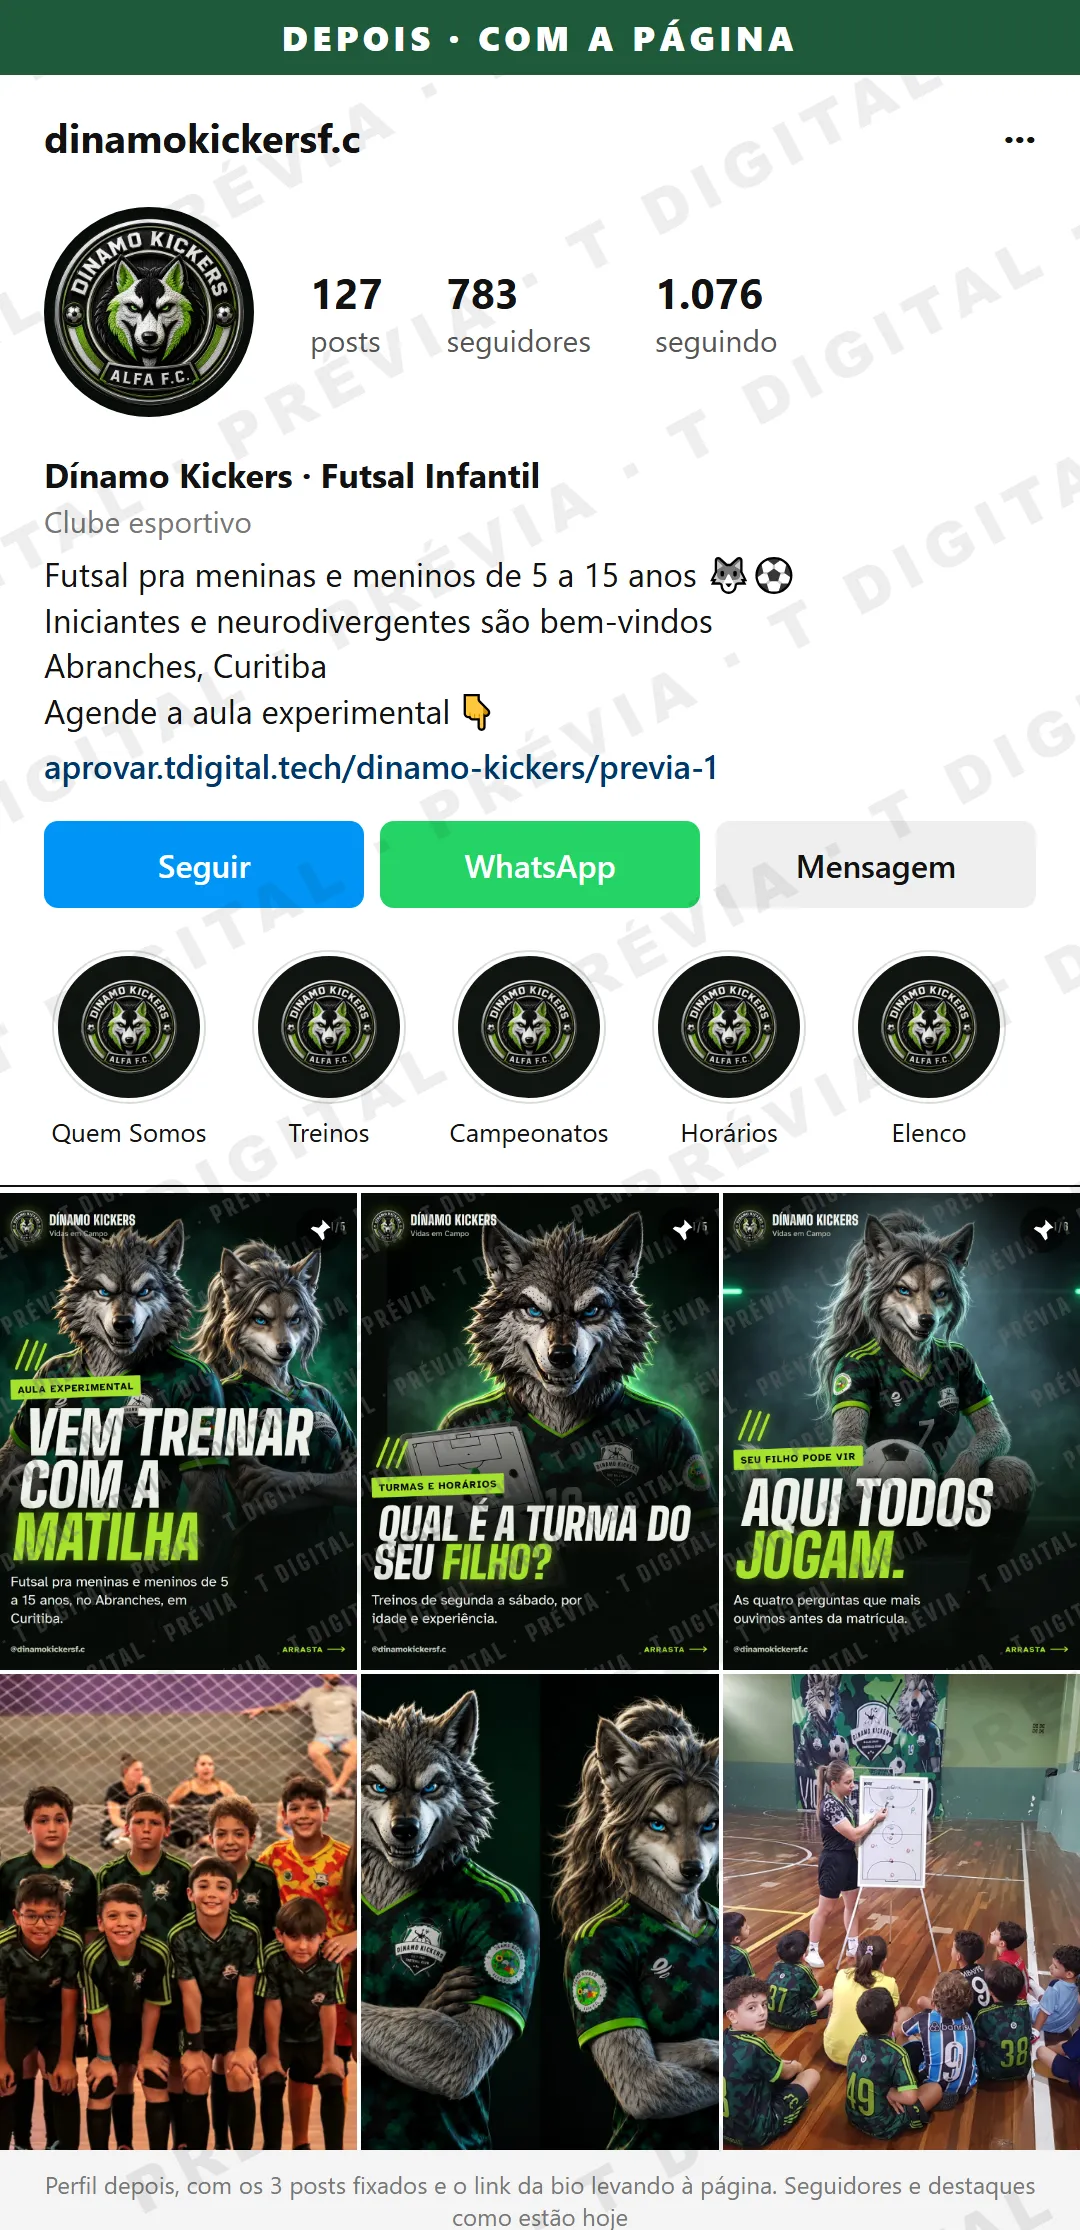
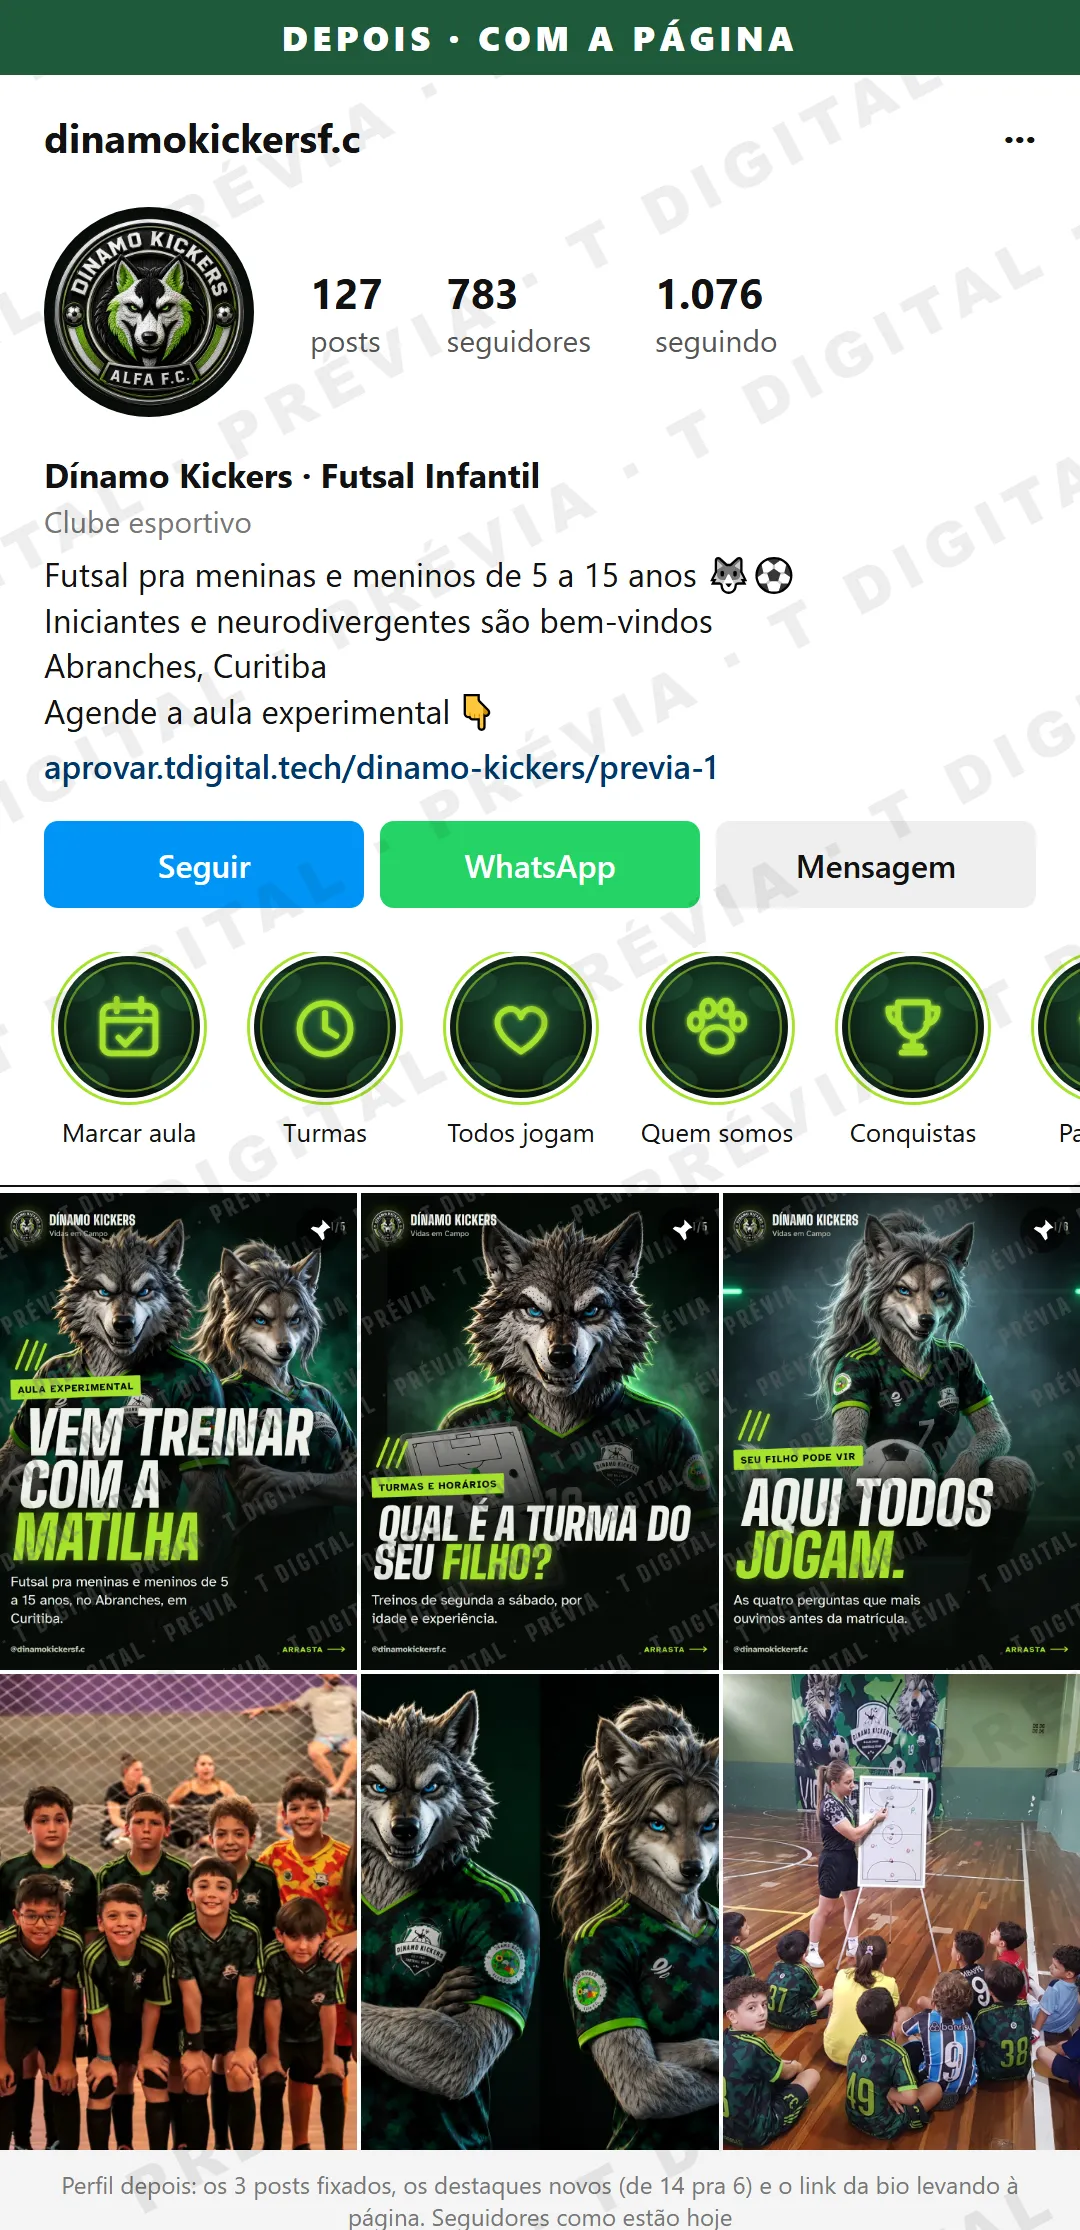
Dinamo: previa do Instagram com destaques novos e a pagina antes e depois

diff --git a/public/dinamo-kickers/2026-11-18-instagram/dados.js b/public/dinamo-kickers/2026-11-18-instagram/dados.js
@@ -23,7 +23,7 @@ window.DADOS = {
     {
      "id": "1-1",
      "titulo": "O perfil, antes e depois",
-     "nota": "Hoje o perfil não tem página: o link é um atalho do Google, o WhatsApp está só em texto (não dá pra tocar) e a categoria é \"Vestuário (marca)\", então quem chega lê loja de roupa. No depois, a categoria vira clube esportivo, o nome ganha \"Futsal Infantil\" (o que os pais buscam), o WhatsApp vira botão e o link da bio leva à página, com turmas, valores e o botão de agendar. O \"antes\" foi recriado do que vimos no perfil em 13/11.",
+     "nota": "Hoje o perfil não tem página: o link é um atalho do Google, o WhatsApp está só em texto (não dá pra tocar) e a categoria é \"Vestuário (marca)\", então quem chega lê loja de roupa. No depois, a categoria vira clube esportivo, o nome ganha \"Futsal Infantil\" (o que os pais buscam), o WhatsApp vira botão, os destaques ganham capas novas e o link da bio leva à página, com turmas, valores e o botão de agendar. O \"antes\" foi recriado do que vimos no perfil em 13/11.",
      "livre": true,
      "slides": [
       {
@@ -34,11 +34,6 @@ window.DADOS = {
       {
        "src": "img/1-1-2.webp",
        "label": "Depois · com a página no link da bio",
-       "ia": false
-      },
-      {
-       "src": "img/1-1-3.webp",
-       "label": "Depois · a página que o link abre",
        "ia": false
       }
      ],
@@ -64,9 +59,78 @@ window.DADOS = {
        "só em texto, sem clique → botão de WhatsApp no perfil e na página"
       ],
       [
+       "Destaques",
+       "14, com Horários em último → 6, na ordem do que o pai pergunta: Marcar aula, Turmas, Todos jogam, Quem somos, Conquistas, Parcerias"
+      ],
+      [
        "Fixados",
        "\"Novo polo de captação\", escudo e certificado → como marcar a aula, turmas e valores, \"Seu filho pode vir\""
       ]
+     ]
+    }
+   ]
+  },
+  {
+   "id": "destaques",
+   "nome": "Destaques",
+   "titulo": "Os destaques",
+   "sub": "A primeira coisa que muda de cara no perfil.",
+   "itens": [
+    {
+     "id": "2-1",
+     "titulo": "As capas dos destaques",
+     "nota": "Hoje são 14 destaques e o de horários é o último. Ficam 6, na ordem do que o pai pergunta: marcar a aula primeiro, depois turmas e valores, quem pode vir, quem somos, conquistas e parcerias. Cada capa ganha um ícone próprio, no preto, no verde e no verde-limão das artes de vocês, pra o pai achar o que procura sem abrir um por um. O conteúdo dos destaques antigos que vale a pena entra dentro desses 6.",
+     "slides": [
+      {
+       "src": "img/2-1-1.webp",
+       "label": "De 14 para 6",
+       "ia": false
+      }
+     ]
+    }
+   ]
+  },
+  {
+   "id": "pagina",
+   "nome": "Página",
+   "titulo": "A página",
+   "sub": "Hoje a Dínamo não tem página. Assim fica com ela.",
+   "itens": [
+    {
+     "id": "3-1",
+     "titulo": "A página, antes e depois",
+     "nota": "Hoje, quem chega pelo Instagram encontra os horários no último destaque, o WhatsApp só em texto e o link da bio num atalho do Google. Com a página, fica tudo num lugar só: pra quem é, as dúvidas dos pais, as turmas, a mensalidade e o botão pra agendar a aula pelo WhatsApp. As telas são da prévia da página que vocês já viram, no tamanho de um celular; as etiquetas amarelas são o que ainda vamos confirmar com vocês.",
+     "slides": [
+      {
+       "src": "img/3-1-1.webp",
+       "label": "Antes e depois",
+       "ia": false
+      },
+      {
+       "src": "img/3-1-2.webp",
+       "label": "Depois · a primeira tela",
+       "ia": false
+      },
+      {
+       "src": "img/3-1-3.webp",
+       "label": "Depois · as dúvidas dos pais",
+       "ia": false
+      },
+      {
+       "src": "img/3-1-4.webp",
+       "label": "Depois · turmas e horários",
+       "ia": false
+      },
+      {
+       "src": "img/3-1-5.webp",
+       "label": "Depois · mensalidade",
+       "ia": false
+      },
+      {
+       "src": "img/3-1-6.webp",
+       "label": "Depois · o WhatsApp",
+       "ia": false
+      }
      ]
     }
    ]
@@ -78,34 +142,34 @@ window.DADOS = {
    "sub": "Ficam no topo do perfil e respondem o que os pais mais perguntam.",
    "itens": [
     {
-     "id": "2-1",
+     "id": "4-1",
      "titulo": "Como marcar a aula experimental",
      "etiqueta": "Post fixado",
      "ordem": "1 de 3",
      "nota": "Hoje nenhum post fixado diz como marcar a aula. Este é o primeiro que o pai vê. Na capa, o lobo e a loba de vocês; nos passos, fotos reais das aulas, só com luz e cor ajustadas.",
      "slides": [
       {
-       "src": "img/2-1-1.webp",
+       "src": "img/4-1-1.webp",
        "label": "1 de 5",
        "ia": false
       },
       {
-       "src": "img/2-1-2.webp",
+       "src": "img/4-1-2.webp",
        "label": "2 de 5",
        "ia": false
       },
       {
-       "src": "img/2-1-3.webp",
+       "src": "img/4-1-3.webp",
        "label": "3 de 5",
        "ia": false
       },
       {
-       "src": "img/2-1-4.webp",
+       "src": "img/4-1-4.webp",
        "label": "4 de 5",
        "ia": false
       },
       {
-       "src": "img/2-1-5.webp",
+       "src": "img/4-1-5.webp",
        "label": "5 de 5",
        "ia": false
       }
@@ -122,34 +186,34 @@ window.DADOS = {
      ]
     },
     {
-     "id": "2-2",
+     "id": "4-2",
      "titulo": "Turmas, horários e mensalidade",
      "etiqueta": "Post fixado",
      "ordem": "2 de 3",
      "nota": "A primeira dúvida dos pais, respondida antes de perguntarem. Horários da mensagem de vocês de 15/11 e valores do folder, com o texto de valor social.",
      "slides": [
       {
-       "src": "img/2-2-1.webp",
+       "src": "img/4-2-1.webp",
        "label": "1 de 5",
        "ia": false
       },
       {
-       "src": "img/2-2-2.webp",
+       "src": "img/4-2-2.webp",
        "label": "2 de 5",
        "ia": false
       },
       {
-       "src": "img/2-2-3.webp",
+       "src": "img/4-2-3.webp",
        "label": "3 de 5",
        "ia": false
       },
       {
-       "src": "img/2-2-4.webp",
+       "src": "img/4-2-4.webp",
        "label": "4 de 5",
        "ia": false
       },
       {
-       "src": "img/2-2-5.webp",
+       "src": "img/4-2-5.webp",
        "label": "5 de 5",
        "ia": false
       }
@@ -166,39 +230,39 @@ window.DADOS = {
      ]
     },
     {
-     "id": "2-3",
+     "id": "4-3",
      "titulo": "Seu filho pode vir",
      "etiqueta": "Post fixado",
      "ordem": "3 de 3",
      "nota": "As quatro dúvidas que mais aparecem antes da matrícula, com a frase da Tati no fim. \"Aqui todos jogam\" é de vocês, da arte do dia do autismo.",
      "slides": [
       {
-       "src": "img/2-3-1.webp",
+       "src": "img/4-3-1.webp",
        "label": "1 de 6",
        "ia": false
       },
       {
-       "src": "img/2-3-2.webp",
+       "src": "img/4-3-2.webp",
        "label": "2 de 6",
        "ia": false
       },
       {
-       "src": "img/2-3-3.webp",
+       "src": "img/4-3-3.webp",
        "label": "3 de 6",
        "ia": false
       },
       {
-       "src": "img/2-3-4.webp",
+       "src": "img/4-3-4.webp",
        "label": "4 de 6",
        "ia": false
       },
       {
-       "src": "img/2-3-5.webp",
+       "src": "img/4-3-5.webp",
        "label": "5 de 6",
        "ia": false
       },
       {
-       "src": "img/2-3-6.webp",
+       "src": "img/4-3-6.webp",
        "label": "6 de 6",
        "ia": false
       }

diff --git a/public/dinamo-kickers/2026-11-18-instagram/index.html b/public/dinamo-kickers/2026-11-18-instagram/index.html
@@ -18,7 +18,7 @@
   <img class="logo" src="logo.png" alt="Dínamo Kickers">
   <p class="olho">Prévia · <span id="data"></span></p>
   <h1>Prévia do Instagram da Dínamo</h1>
-  <p class="intro">Uma <b>demonstração</b> que a T Digital montou pra vocês verem como o Instagram da Dínamo pode ficar, feita com os lobos, as cores e as fotos que vocês mandaram. <b>Nada foi publicado nem alterado no perfil de vocês.</b> Aqui estão o perfil <b>antes e depois</b> (sem página e com a página no link da bio) e os 3 posts que ficariam fixados no topo, respondendo o que os pais mais perguntam antes de matricular.</p>
+  <p class="intro">Uma <b>demonstração</b> que a T Digital montou pra vocês verem como o Instagram da Dínamo pode ficar, feita com os lobos, as cores e as fotos que vocês mandaram. <b>Nada foi publicado nem alterado no perfil de vocês.</b> Aqui estão o perfil <b>antes e depois</b>, os <b>destaques novos</b>, a <b>página</b> que passa a existir (hoje não tem) e os 3 posts que ficariam fixados no topo, respondendo o que os pais mais perguntam antes de matricular.</p>
   <ol class="como">
     <li>Arraste a imagem pro lado pra ver as versões. Toque nela pra ampliar.</li>
     <li>Em cada peça, toque em <b>Aprovado</b> ou <b>Quero mudar</b>.</li>
